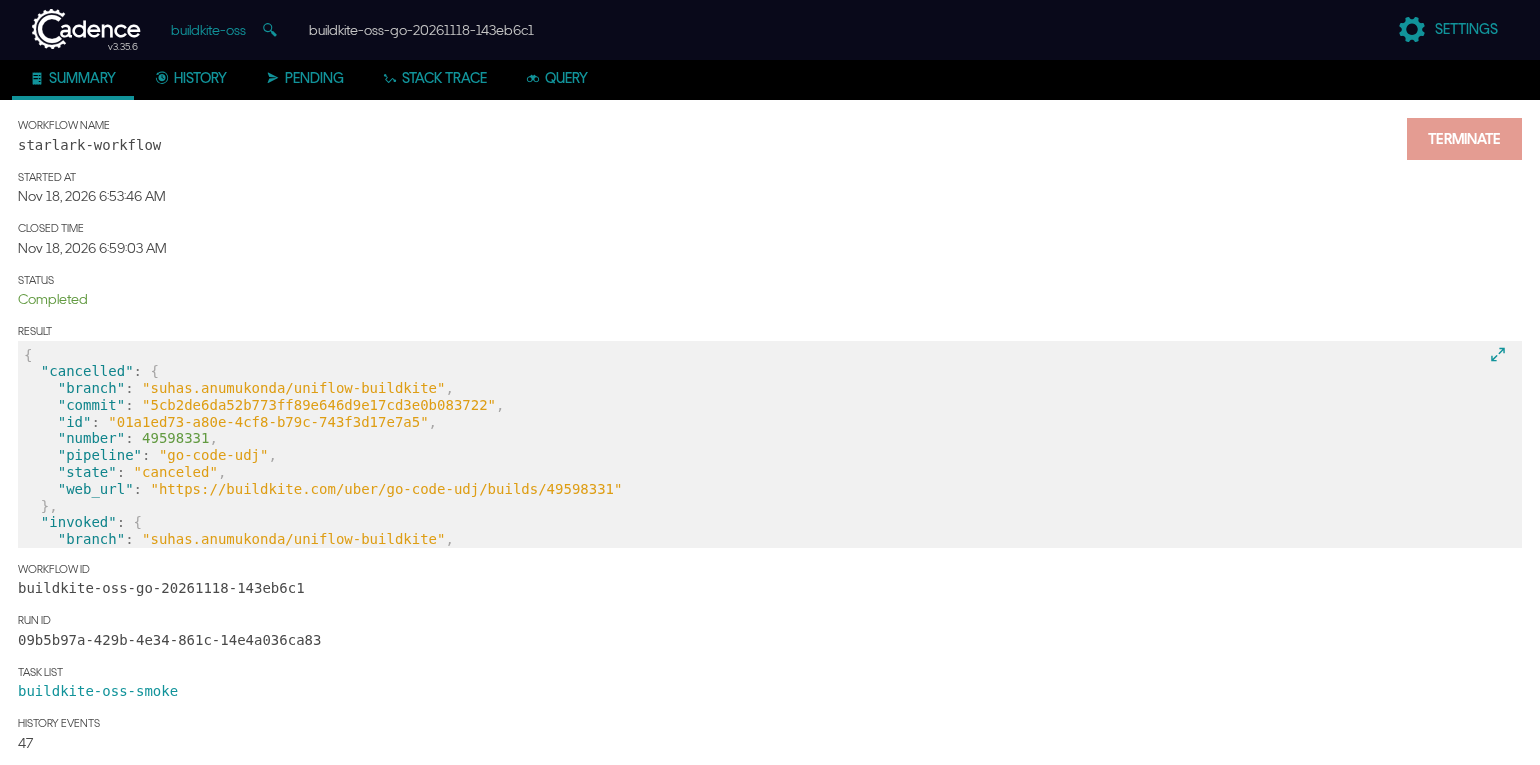
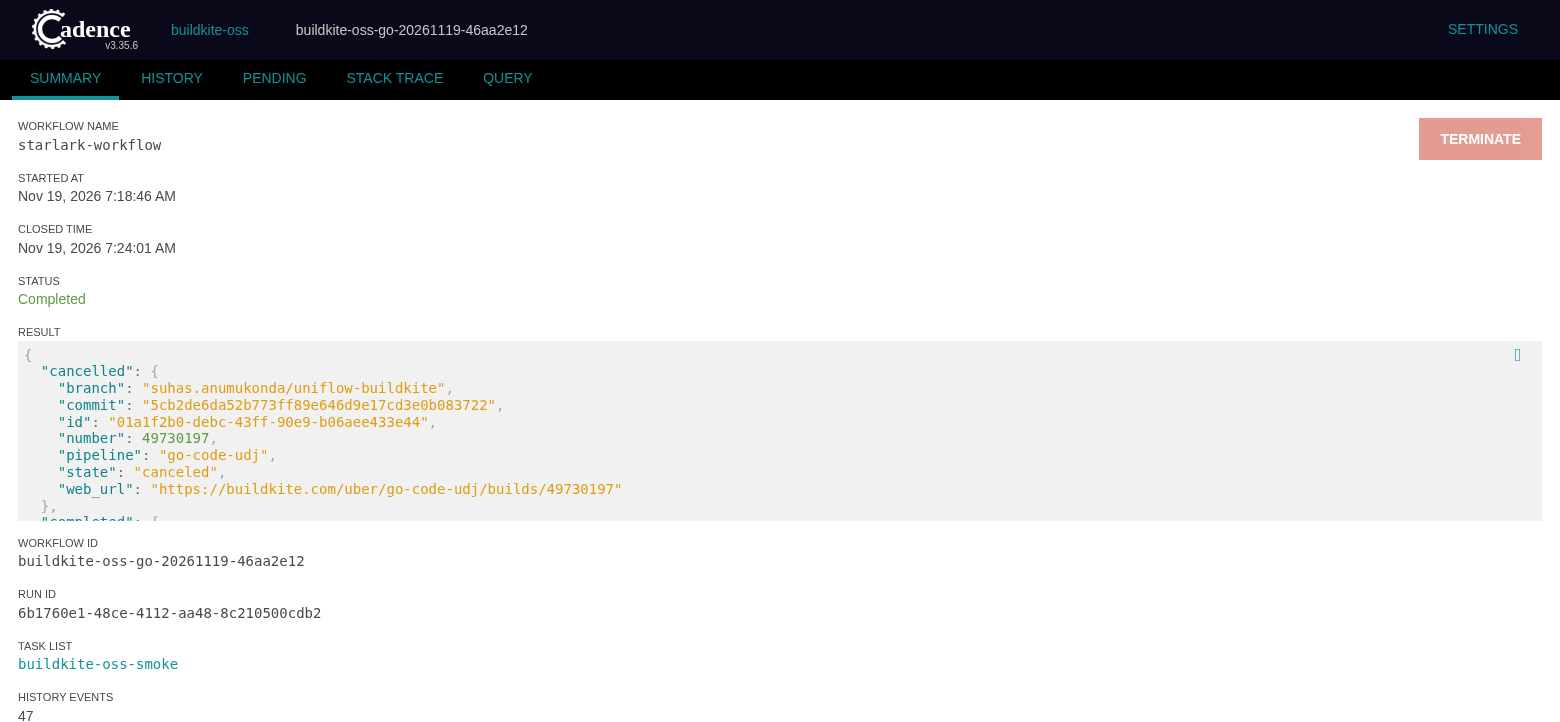
docs: refresh OSS Buildkite review-fix smoke evidence

Changed region(s): [[0.0, 0.0, 1.0, 0.9751]]

diff --git a/README.md b/README.md
@@ -1,75 +1,94 @@
 # Buildkite Uniflow OSS smoke evidence
 
-Collected on **November 18, 2026** for
-[michelangelo-ai/michelangelo#2444](https://github.com/michelangelo-ai/michelangelo/pull/2444).
-This is an evidence-only branch, not part of the source PR's diff.
+Collected on **November 19, 2026** for [michelangelo-ai/michelangelo#2444](https://github.com/michelangelo-ai/michelangelo/pull/2444).
+This is an evidence-only branch, not part of the source PR's file diff.
 
 ## Source and environment
 
-- Live implementation: `d3c293ff262151d471fcc6e1511a387ae7191d59`.
-- Review head: `447a6577612c7dc16ebcb7c460340020a3128c33`.
-  The only intervening change is a required naming annotation on the test
-  HTTP handler. All production code is byte-identical to the live-tested tree.
-- Go: stock `github.com/michelangelo-ai/michelangelo/go/cmd/worker`, running
-  locally with the complete Fx/plugin/activity registrations and a separate
-  local Cadence instance. This was not the internal MA worker or a full
-  Kubernetes sandbox.
-- Python: a locally built `michelangelo-0.13.0-py3-none-any.whl`, installed in
-  an isolated Python 3.12 environment. `PYTHONPATH` was cleared, imports were
-  verified against the wheel, and the normal `create_context().run()` local
-  execution path compiled the workflow before running it.
-- An operator-authenticated loopback proxy provided access to the live
-  Buildkite API. No credentials were workflow arguments or results.
+- Live-tested source and review-fix head: `c392fb49141fb2ad1f73e44f1b433f9ddad6ea8b`.
+- Go: the stock OSS `go/cmd/worker`, with its complete Fx/plugin/activity registrations,
+  running against a separate local Cadence instance. Native executables from the official
+  MySQL 8.0, Cadence v1.2.14, and Cadence Web v3.35.6 images were run locally because
+  this test host's Docker endpoint was unavailable. This was not the internal MA worker
+  or a full Kubernetes sandbox.
+- Python: built a local wheel, installed it in an isolated Python 3.12.16 environment,
+  cleared `PYTHONPATH`, verified installed plugin bytes against the source commit,
+  and used the ordinary `create_context().run()` local execution path. The bare wheel's
+  read-only quickstart was also tested without Ray installed.
+- Live API authentication came from an operator-authenticated loopback proxy.
+  Credentials were not workflow arguments or results. Operator and private fixture
+  configuration are deliberately not included in this bundle.
 
-## Observed results
+## Verified live results
 
-| Implementation | Submit → get → wait | Invoke | Cancel |
+| Implementation | Trigger / get / wait | Invoke | Cancel |
 | --- | --- | --- | --- |
-| OSS Go / Starlark | [49597966 — passed](https://buildkite.com/uber/go-code-udj/builds/49597966) | [49598182 — passed](https://buildkite.com/uber/go-code-udj/builds/49598182) | [49598331 — canceled](https://buildkite.com/uber/go-code-udj/builds/49598331) |
-| Installed-wheel Python local run | [49597323 — passed](https://buildkite.com/uber/go-code-udj/builds/49597323) | [49597585 — passed](https://buildkite.com/uber/go-code-udj/builds/49597585) | [49597813 — canceled](https://buildkite.com/uber/go-code-udj/builds/49597813) |
+| Stock OSS Go worker / Starlark | [49729918: passed](https://buildkite.com/uber/go-code-udj/builds/49729918) | [49730026: passed](https://buildkite.com/uber/go-code-udj/builds/49730026) | [49730197: canceled](https://buildkite.com/uber/go-code-udj/builds/49730197) |
+| Installed-wheel Python local run | [49728325: passed](https://buildkite.com/uber/go-code-udj/builds/49728325) | [49728546: passed](https://buildkite.com/uber/go-code-udj/builds/49728546) | [49728696: canceled](https://buildkite.com/uber/go-code-udj/builds/49728696) |
 
-Each successful job's log contained the expected smoke marker. Independent
-read-only checks confirmed terminal states, build identity, exact fixture
-revision/configuration, and all seven result field types. The Buildkite jobs
-run a pre-existing harmless echo/sleep fixture; the `commit` in each build
-snapshot is that job repository's commit, not the OSS implementation commit.
+Independent read-only checks verified the actual build IDs, numbers, terminal states,
+fixture revision/configuration, all seven public field types, clean script-job states,
+and the expected `Uniflow Buildkite plugin smoke: passed` marker in each successful
+build's actual job logs. The build snapshot's `commit` is the separate job-fixture
+repository revision, not the OSS implementation commit.
 
-The Go workflow completed with **47 history events** and precisely the seven
-expected scheduled activities: three `TriggerBuild`, one `GetBuild`, two
-`SensorGetBuild`, and one `CancelBuild`. All activity names are qualified by
-the OSS Go package. Submission and cancellation had no activity retry policy.
+The Go workflow completed with **47 events** and exactly seven scheduled
+activities: three `TriggerBuildkiteBuild`, one `GetBuildkiteBuild`, two
+`SensorBuildkiteBuild`, and one `CancelBuildkiteBuild`. Receipts include their actual
+OSS-qualified activity types. Submission and cancellation retry policies were absent.
 
 ### Actual Cadence UI
 
 ![Actual completed OSS Cadence workflow](cadence-oss-summary.png)
 
-The screenshot is cropped before the serialized workflow input. Workflow:
-`buildkite-oss-go-20261118-143eb6c1`; run:
-`09b5b97a-429b-4e34-861c-14e4a036ca83`; domain: `buildkite-oss`; task list:
-`buildkite-oss-smoke`.
+The screenshot is cropped before serialized workflow inputs. The onboarding modal
+was dismissed using its normal UI button; the displayed status/result were not altered.
 
-Local UI URL (requires access/port-forwarding to the test host while the
-local stack is running):
+- Domain: `buildkite-oss`; task list: `buildkite-oss-smoke`
+- Workflow: `buildkite-oss-go-20261119-46aa2e12`
+- Run: `6b1760e1-48ce-4112-aa48-8c210500cdb2`
+- [Local Cadence run](http://127.0.0.1:18088/domains/buildkite-oss/workflows/buildkite-oss-go-20261119-46aa2e12/6b1760e1-48ce-4112-aa48-8c210500cdb2/summary)
+  (requires access/port-forwarding to the test host while this local stack remains running).
 
-```text
-http://127.0.0.1:18088/domains/buildkite-oss/workflows/buildkite-oss-go-20261118-143eb6c1/09b5b97a-429b-4e34-861c-14e4a036ca83/summary
-```
+### Installed-wheel local-run output
 
-### Captured Python local-run output
+![Rendering of captured installed-wheel local-run output](python-wheel-local-smoke.png)
 
-![Browser rendering of verbatim local-run output](python-wheel-local-smoke.png)
+This is an explicitly labeled browser rendering of captured stdout and independent
+verification output, **not a terminal screenshot**. [Verbatim text](python-local-run.txt)
+and [machine-readable verified receipts](smoke-receipts.json) are included.
 
-This is a rendering of captured stdout, not a screenshot of a terminal.
-[Verbatim text](python-local-run.txt) and
-[machine-readable verified receipts](smoke-receipts.json) are included.
+## Additional live cancellation regression
 
-## Scope of the live proof
+The test held the acknowledgement of a real Buildkite POST, canceled its Cadence parent,
+and independently verified automatic cleanup of
+[49728423: canceled](https://buildkite.com/uber/go-code-udj/builds/49728423).
+History verified the ordering `parent cancel request < submission completion < cleanup`,
+exactly one cancellation activity, no subsequent sensor call, and retention of the
+original cancellation cause. The existing Starlark SDK's cancellation/failure-envelope
+behavior is retained; this change does not claim to change that platform UI status.
 
-The live remote run used Cadence. Temporal behavior and direct bearer-token
-transport were exercised in hermetic tests, not against a live Temporal
-server or a separately provisioned Buildkite API token. No SDK release or AV
-dependency bump was published by these tests.
+## Earlier fixture attempt
 
-Only compact results, build links, and selected provenance are published
-here. Raw job environments, gateway configuration, credentials, raw workflow
-inputs, and temporary smoke scripts are intentionally excluded.
+In the first Go run, build 49728533 reported an overall `passed` state while its fixture
+job hit the fixture's five-minute limit. The actual log printed the expected success
+marker and the command exited zero, but the job did not have a clean terminal state.
+That attempt was **not used as the clean smoke proof** above: the entire Go suite was
+repeated, and the replacement builds have clean script jobs as well as success markers.
+The compact anomaly is retained in the receipts; raw agent logs are not published.
+
+## Local validation and boundaries
+
+- Three scoped Bazel suites passed, including a final uncached test execution.
+- Go race tests and vet passed; activity/plugin statement coverage: **98.4% / 97.0%**.
+- **131 tests** passed on Python **3.9.25 and 3.12.16** with **100% line and branch coverage**.
+- Repository-pinned Ruff **0.9.10** lint/format and native Gazelle passed.
+- The exact documented Secret-backed worker patch was validated against a Helm-rendered
+  Deployment using `kubectl --local`; the existing object-storage `envFrom` and all other
+  container fields were preserved. No live Kubernetes rollout was performed.
+- `aifx verify` found no repository configuration, so it ran no checks; it is not counted
+  as an extra verification pass.
+- Live remote execution used Cadence. Temporal and direct bearer-token transport were
+  tested hermetically, not with a live Temporal server or newly provisioned Buildkite token.
+- No SDK release, wheel publication, AV dependency bump, raw workflow history/input,
+  gateway configuration, credentials, or raw job environments/logs are included.
